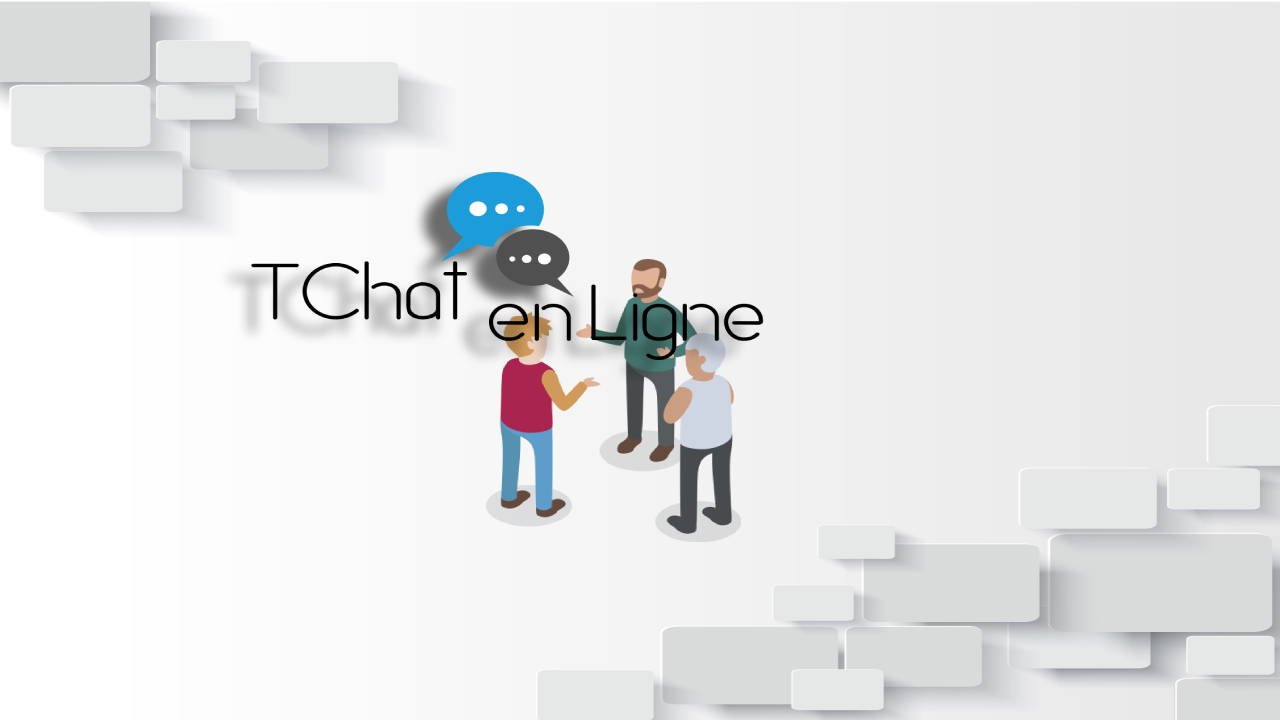
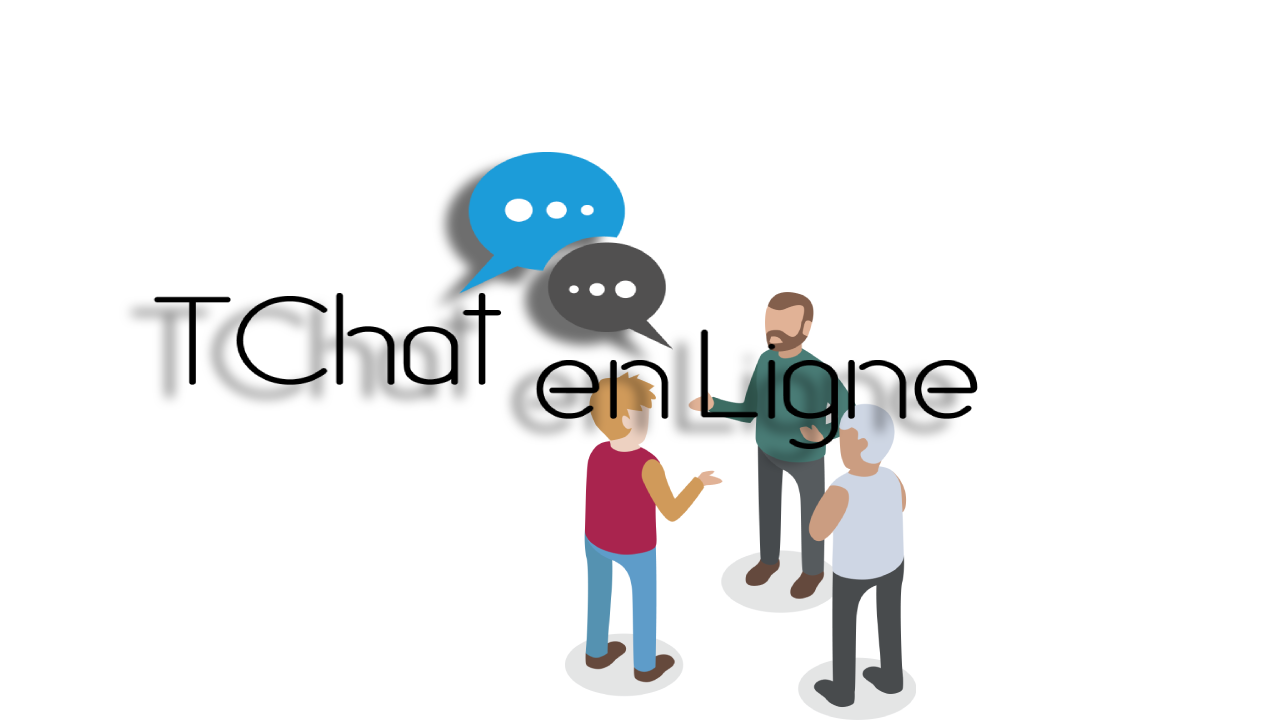
Home Design
Background
Images 
Icones
Layout
Text
Buttons

diff --git a/forteroche/public/style.css b/forteroche/public/style.css
@@ -1,13 +1,16 @@
 html {
-    height: 100%;
-  }
+  height: 100%;
+}
+body {
+  min-height: 100%;
+  margin: 0;
+  padding: 0;
+}
   
 .bg {
-    background-image: url('img/1.jpg');
-    background-position: center;
-    background-repeat: no-repeat;
+    background: url("img/1.jpg") no-repeat center center fixed; 
     background-size: cover;
-  }
+}
 
 #logo{
   height: 50px;
@@ -92,9 +95,6 @@ html {
 
 .tchat{
   min-height: 800px;
-  background-image: url("/forteroche/public/img/tchat.png");
-  background-repeat: no-repeat;
-  background-size: cover;
 }
 
 .tchat-title{
@@ -107,9 +107,40 @@ html {
 }
 
 .tchat-btn{
+position: absolute;
+right: 30%;
+top : 1600px;
+}
+
+.tchat-img{
+  position: relative;
+  height: 600px;
+  right: 30%;
+}
+
+.com{
+  min-height: 800px;
+}
+.com-title{
+  margin-top: 5px;
+  text-align: center;
+}
+
+.com-sub{
+  text-align: center;
+}
+
+.com-btn{
   position: absolute;
-  right: 20%;
-  top : 1600px;
+  left: 20%;
+  bottom : -1500px;
+}
+
+.com-img{
+  position: relative;
+  height: 600px;
+  margin-top: 50px;
+  left: 40%;
 }
 
 /*-----------TITLE GRADIENT ANIMATION EFFECT----------*/
@@ -265,7 +296,6 @@ a:hover, a:focus, a:active {
 
 .fancy-button {
   display: inline-block;
-  margin: 30px;
   font-family: 'Poiret One', cursive, Helvetica, Arial, sans-serif;
   font-size: 17px;
   letter-spacing: 2px;

diff --git a/forteroche/app/view/home.php b/forteroche/app/view/home.php
@@ -148,25 +148,36 @@ error_reporting(E_ALL);?>
 		</header>
 
 		<!-- Page Content -->
-		<section class="py-5 tchat">
+		<div class="bg">
+			<section class="py-5 tchat">
 
-			<div class="container">
-				<h2 class="display-4 tchat-title gradient">UNE COMMNAUTÉ ACTIVE</h2>
-				<p class="lead tchat-sub">Partagez toutes vos impressions entre rocheux endurcis sur le tchat de la communauté !</p>
-			</div>
+				<div class="container">
+					<h2 class="display-4 tchat-title gradient">UNE COMMNAUTÉ ACTIVE</h2>
+					<p class="lead tchat-sub">Partagez toutes vos impressions entre rocheux endurcis sur le tchat de la communauté !</p>
+					<img class="tchat-img" src="/forteroche/public/img/tchat.png">
+				</div>
 
-			<div class="tchat-btn">
-				<a href="#" class="fancy-button bg-gradient1"><span class="span"><i class="fa fa-wheelchair-alt"></i>COMMENCER À TCHATER</span></a>
-			</div>
+				<div class="tchat-btn">
+					<a href="#" class="fancy-button bg-gradient1"><span class="span"><i class="fa fa-wheelchair-alt"></i>COMMENCER À TCHATER</span></a>
+				</div>
 
-		</section>
+			</section>
 
-		<section class="py-5">
-			<div class="container">
-				<h1 class="display-4 com-title gradient">UNE INTERACTION INEDITE</h1>
-				<p class="lead">À la fin de chaque chapitre réagissez à chaud à l'aide des commentaires. Forteroche vous lis et réponds!</p>
-			</div>
-		</section>
+			<section class="py-5 com">
+
+				<div class="container">
+					<h1 class="display-4 com-title gradient">UNE INTERACTION INEDITE</h1>
+					<p class="lead com-sub">À la fin de chaque chapitre réagissez à chaud à l'aide des commentaires. Forteroche vous lis et réponds!</p>
+					<img class="com-img" src="/forteroche/public/img/interact.png">
+
+					<div class="com-btn">
+						<a href="#" class="fancy-button bg-gradient1"><span class="span"><i class="fa fa-wheelchair-alt"></i>LAISSER UN COMMENTAIRE</span></a>
+					</div>
+				</div>
+
+			</section>
+			
+		</div>
 
 		<div class="loader-wrapper">
 			<span class="loader"><span class="loader-inner"></span></span>
@@ -180,6 +191,15 @@ error_reporting(E_ALL);?>
         <script type="text/javascript" src="/forteroche/public/js/index.js"></script>
         <script src="https://cdnjs.cloudflare.com/ajax/libs/popper.js/1.14.7/umd/popper.min.js" integrity="sha384-UO2eT0CpHqdSJQ6hJty5KVphtPhzWj9WO1clHTMGa3JDZwrnQq4sF86dIHNDz0W1" crossorigin="anonymous"></script>
         <script src="https://stackpath.bootstrapcdn.com/bootstrap/4.3.1/js/bootstrap.min.js" integrity="sha384-JjSmVgyd0p3pXB1rRibZUAYoIIy6OrQ6VrjIEaFf/nJGzIxFDsf4x0xIM+B07jRM" crossorigin="anonymous"></script>  
+
+
+		<footer class="page-footer font-small cyan darken-3">
+
+			<div class="footer-copyright text-center py-3">
+			<a href="https://mdbootstrap.com/education/bootstrap/"> © Copyright 2019 - All rights reserved | PROJET4 AMIR | Développeur Web Junior</a>
+			</div>
+
+		</footer>
 
     </body>
 </html>
